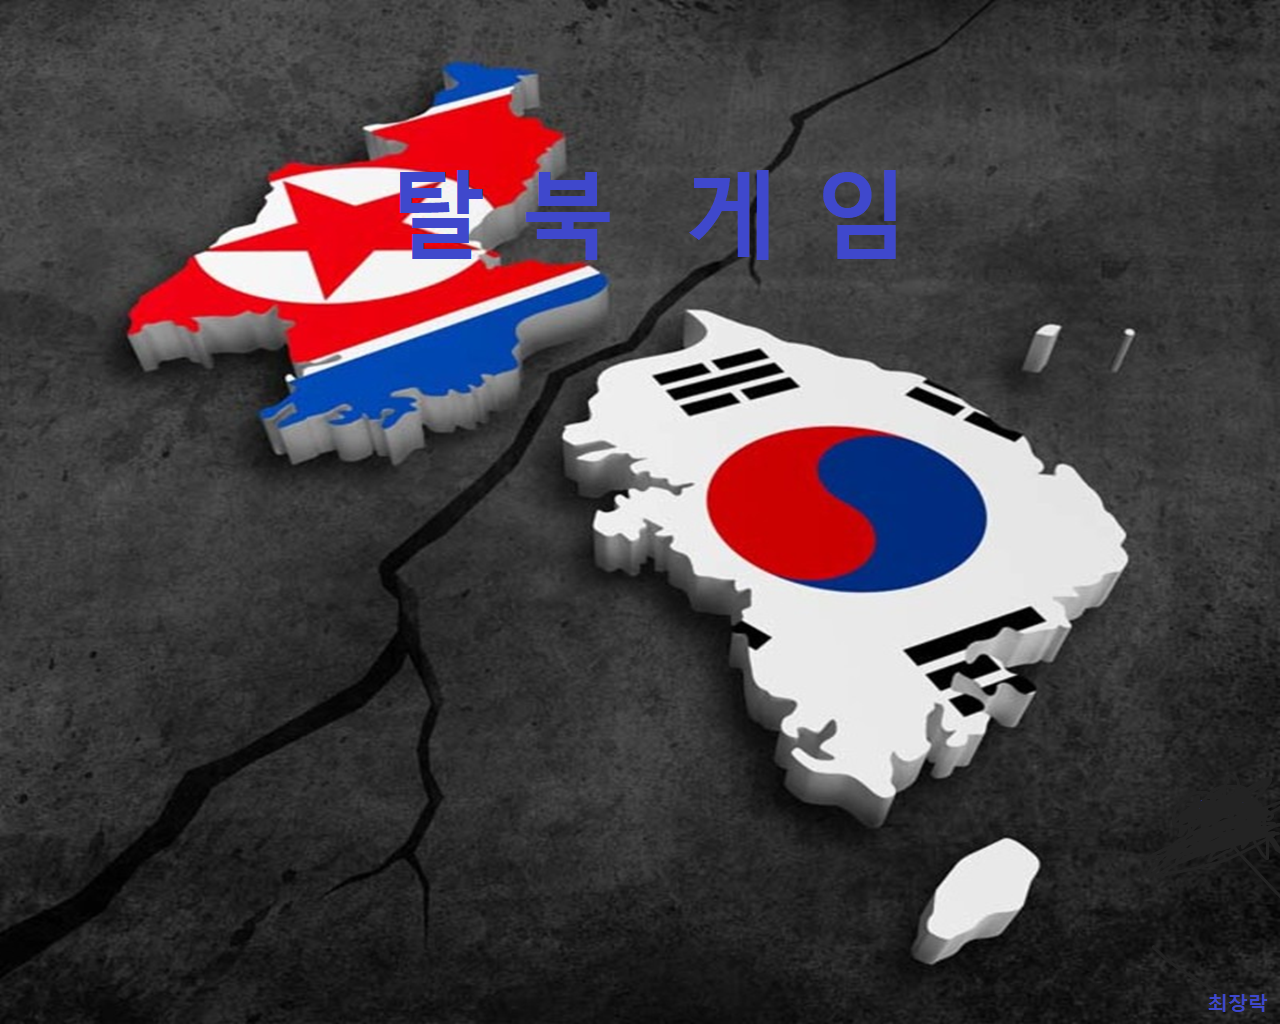
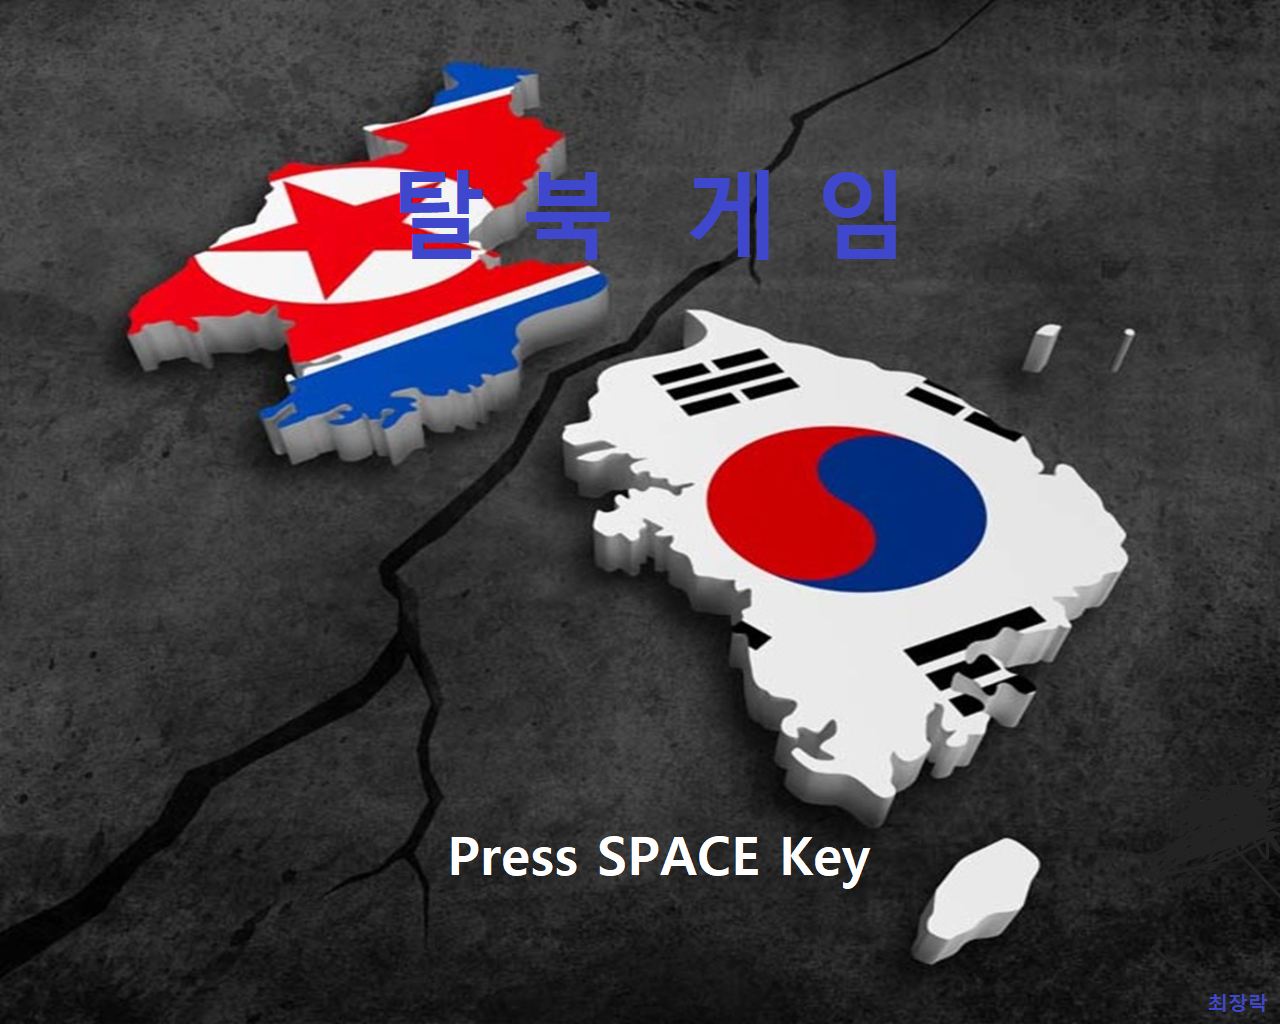
탈북게임 startstate 변경

Changed region(s): [[0.3438, 0.8125, 0.6875, 0.875]]

diff --git a/프로젝트/탈북게임/player_newimage.py b/프로젝트/탈북게임/player_newimage.py
@@ -78,7 +78,7 @@ class IdleState:
         if boy.hide == False :
             if boy.collideWithEnemy == True:
                 boy.image.opacify(random.randint(1, 100) * 0.01)
-            if boy.dirx == 1 or boy.diry == 1:
+            if boy.dirx != -1 :
                 boy.image.clip_draw(0, 100, 100, 100, boy.x, boy.y)
             else:
                 boy.image.clip_draw(700, 0, 100, 100, boy.x, boy.y)
@@ -129,7 +129,7 @@ class WalkState :
         if boy.hide == False:
             if boy.collideWithEnemy == True:
                 boy.image.opacify(random.randint(1, 100) * 0.01)
-            if boy.dirx == 1 or boy.diry == 1:
+            if boy.dirx != - 1 :
                 boy.image.clip_draw(int(boy.frame) * 100, 100, 100, 100, boy.x, boy.y)
             else:
                 boy.image.clip_draw(int(boy.frame) * 100, 0, 100, 100, boy.x, boy.y)
@@ -183,7 +183,7 @@ class RunState:
         if boy.hide == False :
             if boy.collideWithEnemy == True :
                 boy.image.opacify(random.randint(1, 100) * 0.01)
-            if boy.dirx == 1 or boy.diry == 1 :
+            if boy.dirx != -1 :
                 boy.image.clip_draw(int(boy.frame) * 100, 100, 100, 100, boy.x, boy.y)
             else:
                 boy.image.clip_draw(int(boy.frame) * 100, 0, 100, 100, boy.x, boy.y)

diff --git a/프로젝트/탈북게임/Player.py b/프로젝트/탈북게임/Player.py
@@ -129,7 +129,7 @@ class WalkState :
         if boy.hide == False:
             if boy.collideWithEnemy == True:
                 boy.image.opacify(random.randint(1, 100) * 0.01)
-            if boy.dirx == 1 or boy.diry == 1:
+            if boy.dirx == 1 :
                 boy.image.clip_draw(int(boy.frame) * 125, 100, 125, 100, boy.x, boy.y)
             else:
                 boy.image.clip_draw(int(boy.frame) * 125, 0, 125, 100, boy.x, boy.y)
@@ -183,7 +183,7 @@ class RunState:
         if boy.hide == False :
             if boy.collideWithEnemy == True :
                 boy.image.opacify(random.randint(1, 100) * 0.01)
-            if boy.dirx == 1 or boy.diry == 1 :
+            if boy.dirx == 1 :
                 boy.image.clip_draw(int(boy.frame) * 125, 100, 125, 100, boy.x, boy.y)
             else:
                 boy.image.clip_draw(int(boy.frame) * 125, 0, 125, 100, boy.x, boy.y)

diff --git a/프로젝트/탈북게임/mygame.py b/프로젝트/탈북게임/mygame.py
@@ -3,6 +3,6 @@ import pico2d
 
 import start_state
 
-pico2d.open_canvas(1280, 1000)
+pico2d.open_canvas(1280, 1000, sync=True)
 game_framework.run(start_state)
 pico2d.close_canvas()
